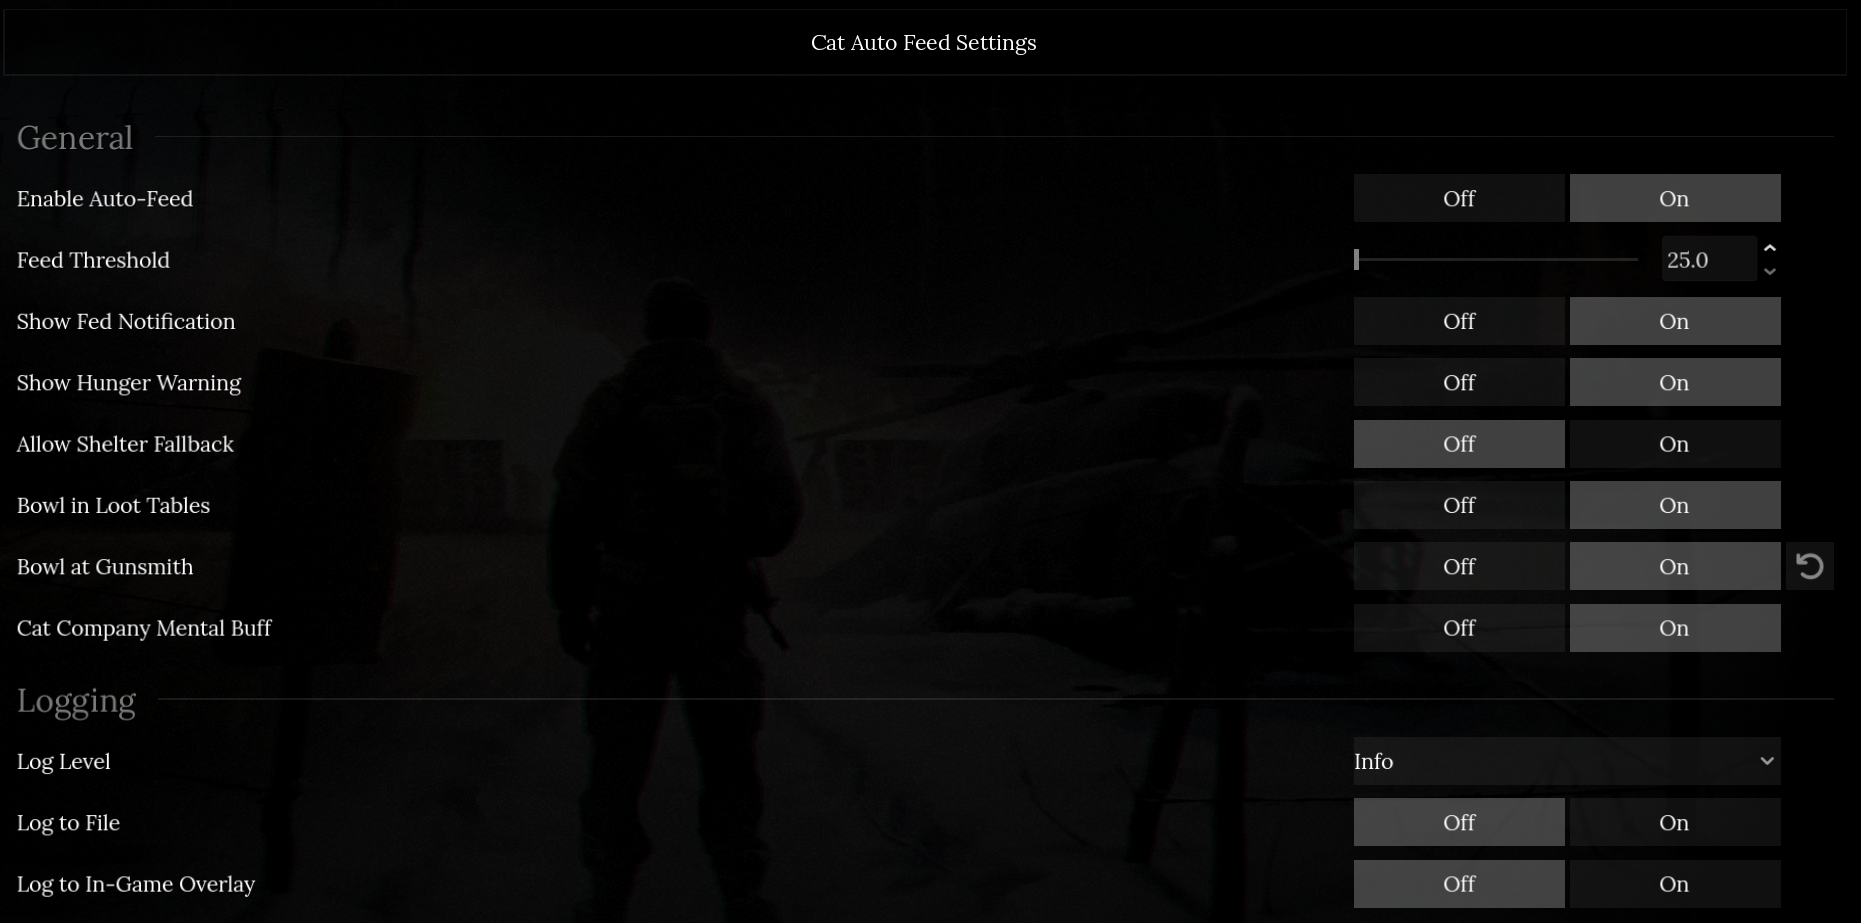
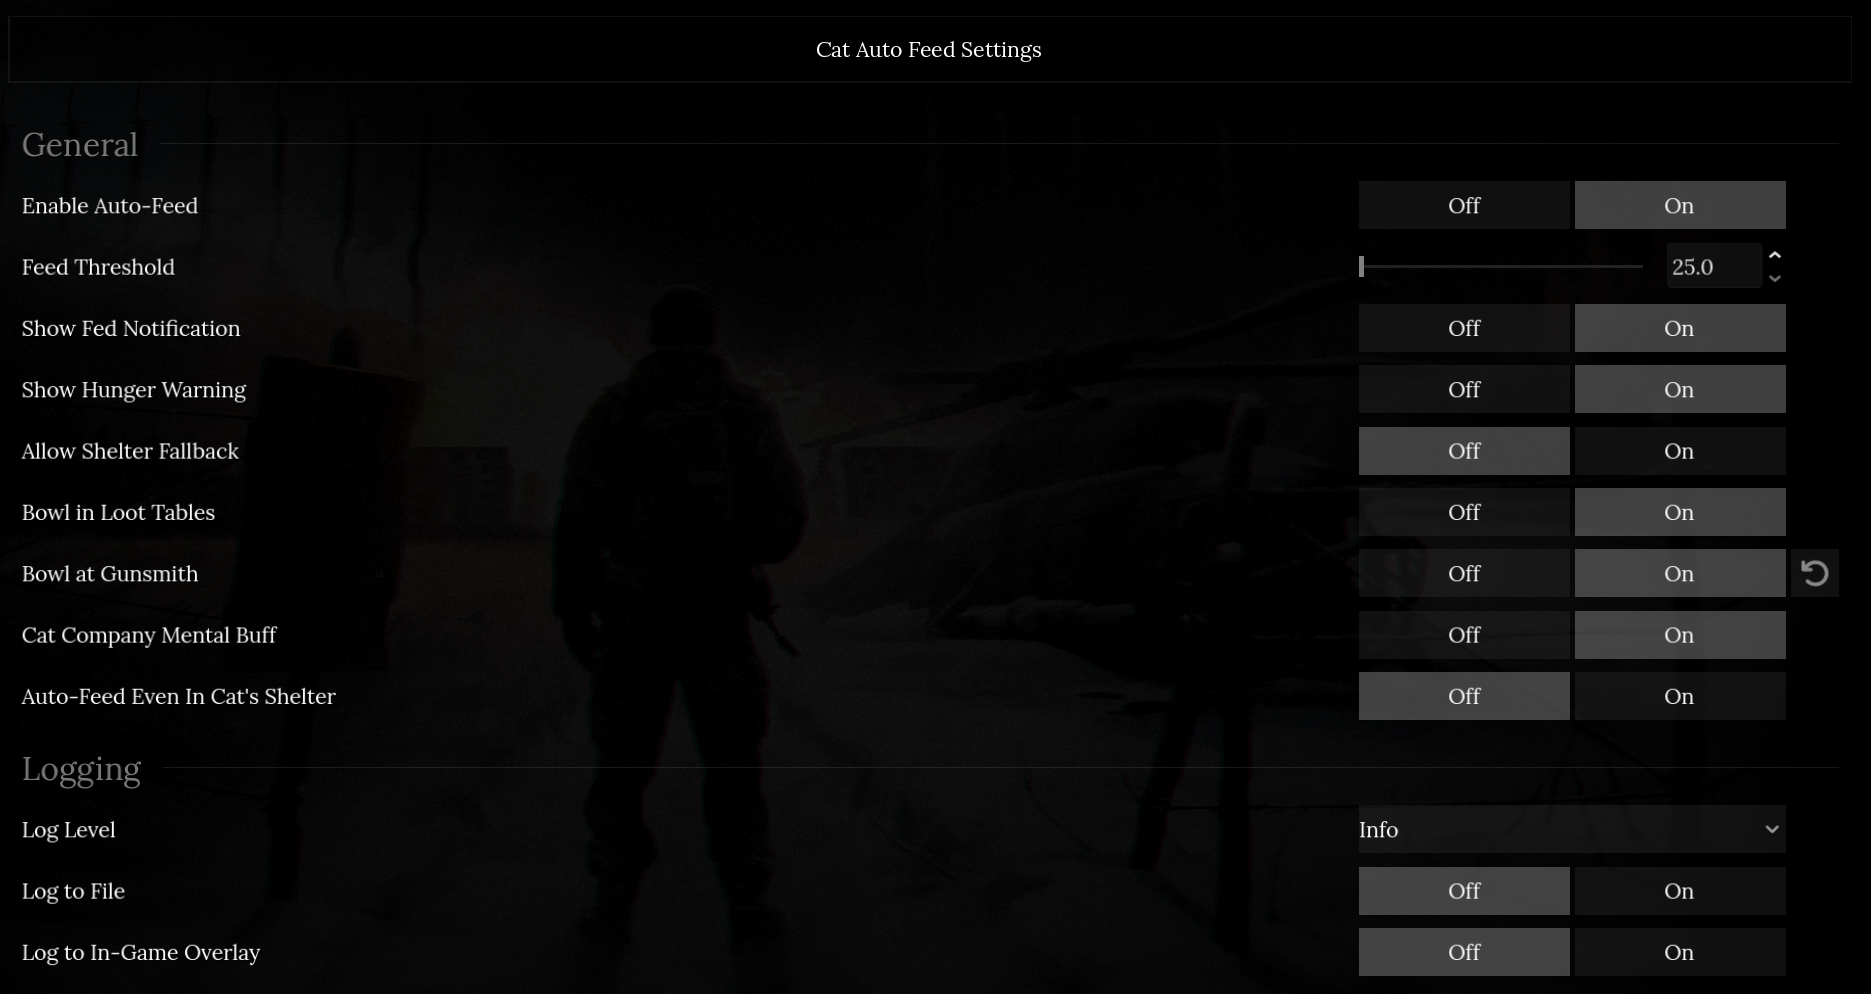
Publish CatAutoFeed 1.1.3: bowl-storage fix + in-shelter auto-feed toggle (#24)
* Fix CatAutoFeed bowl-storage sharing across instances (#18) (#21)

Bowls were sharing a single SlotData object across every spawned instance
because Cat_Bowl.tscn's inline SlotData sub-resource lacked
resource_local_to_scene. Symptoms: food added to one bowl appeared in
every bowl simultaneously, and placing a new bowl wiped the existing one's
contents (because instantiation re-initialized the shared storage).

Two changes:

- Cat_Bowl.tscn: set `resource_local_to_scene = true` on the SlotData
  sub-resource. From here on, every Cat_Bowl.tscn.instantiate() yields a
  bowl with its own SlotData and its own storage Array — independent
  state per scene instance.

- BowlPickup.gd._ready(): defensive heal at the top. Bowls in saves
  written before this fix were serialized while sharing SlotData, so on
  load they can still point at a common SlotData even with the .tscn-side
  fix in place. Duplicate it on _ready when the resource isn't already
  marked local-to-scene. Self-disabling per bowl: after one heal +
  next save, the flag is true and the check skips on subsequent loads.
  No-op for fresh installs (the .tscn fix sets the flag immediately, so
  the heal never triggers).

Verified live: two bowls placed in same shelter no longer share storage,
food added to one stays in one, placing a third doesn't wipe the
existing two. Backwards-compatible with v1.1.2 saves via the heal.

No version bump or CHANGELOG entry yet — fix is verified locally but
[…]

diff --git a/mods/CatAutoFeed/CHANGELOG.md b/mods/CatAutoFeed/CHANGELOG.md
@@ -3,6 +3,38 @@
 All notable changes to the Cat Auto Feed mod are documented here. Dates are
 YYYY-MM-DD.
 
+## 1.1.3 — 2026-04-28
+
+Bowl-storage corruption fix and a user-requested in-shelter auto-feed
+toggle. Both reported via ModWorkshop comments on mod 56407 — thanks to
+Hun Alexander for the bug report and the feature suggestion.
+
+- **Bowl-storage sharing fix.** Cat Food Bowls were sharing a single
+  `SlotData` object across every spawned instance because
+  `Cat_Bowl.tscn`'s inline `SlotData` sub-resource lacked
+  `resource_local_to_scene = true`. Symptoms: food added to one bowl
+  appeared in every bowl simultaneously, and placing a new bowl wiped the
+  existing one's contents (because instantiation re-initialised the shared
+  storage). Two-part fix:
+  - `Cat_Bowl.tscn`: set `resource_local_to_scene = true` on the embedded
+    `SlotData`. Each new bowl spawn now gets its own independent SlotData
+    and its own storage Array.
+  - `BowlPickup.gd._ready()`: defensive heal that duplicates
+    non-local-to-scene SlotData on load. Auto-fixes existing-save bowls
+    that were serialised while shared. Self-disables after one trigger
+    per bowl per save. No-op for fresh installs (the `.tscn` flag means
+    new bowls already pass the check).
+- **New MCM toggle "Auto-Feed Even In Cat's Shelter"** (default OFF).
+  When ON, the auto-feed tick runs even when the player is physically
+  inside the cat's shelter, instead of deferring to vanilla in-shelter
+  feeding. Useful for players who prefer fully hands-off bowl management.
+  Default OFF preserves prior behaviour exactly.
+
+Known minor issues deferred to a future patch: bowl mesh occasionally
+clips into the surface it's placed on (intermittent physics), and dark
+shading lines visible on the bowl at moderate distance (likely auto-LOD
+related).
+
 ## 1.1.2 — 2026-04-27
 
 Critical performance fix. Players reported severe FPS drops (e.g. 140 → 30)

diff --git a/README.md b/README.md
@@ -6,7 +6,7 @@ This monorepo houses multiple mods, each with its own independent version. GitHu
 
 | Mod | Version | Release tag | ModWorkshop |
 |-----|---------|-------------|-------------|
-| **Cat Auto Feed** | `1.1.2` | [CatAutoFeed-v1.1.2](https://github.com/dwoodruff83/RoadToVostokMods/releases/tag/CatAutoFeed-v1.1.2) | [56407](https://modworkshop.net/mod/56407) |
+| **Cat Auto Feed** | `1.1.3` | [CatAutoFeed-v1.1.3](https://github.com/dwoodruff83/RoadToVostokMods/releases/tag/CatAutoFeed-v1.1.3) | [56407](https://modworkshop.net/mod/56407) |
 | **RTV Mod Logger** | `1.0.1` | [RTVModLogger-v1.0.1](https://github.com/dwoodruff83/RoadToVostokMods/releases/tag/RTVModLogger-v1.0.1) | [56406](https://modworkshop.net/mod/56406) |
 | **RTV Wallets** | `1.0.1` | [RTVWallets-v1.0.1](https://github.com/dwoodruff83/RoadToVostokMods/releases/tag/RTVWallets-v1.0.1) | [56408](https://modworkshop.net/mod/56408) |
 | **Punisher Guarantee** | `0.1.0` | [PunisherGuarantee-v0.1.0](https://github.com/dwoodruff83/RoadToVostokMods/releases/tag/PunisherGuarantee-v0.1.0) | — (not yet published) |
